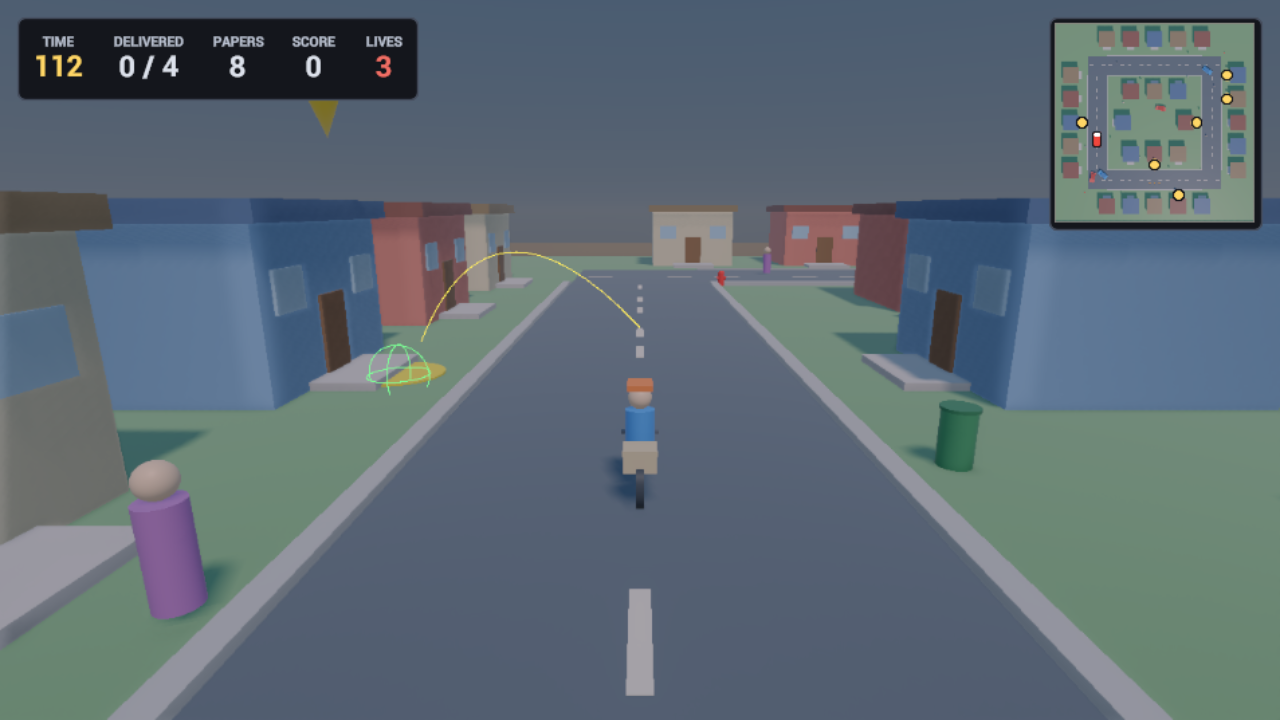
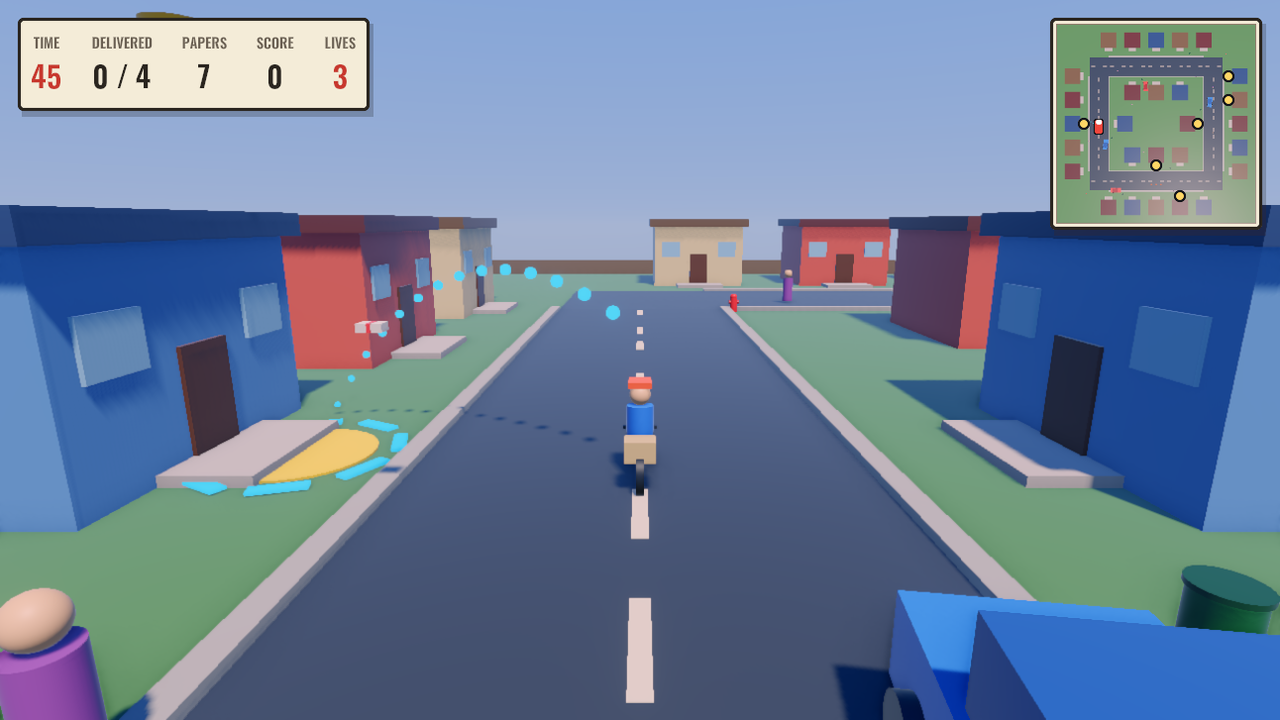
PaperKid: new screenshots, and its READMEs say what it is now
The title, a ride with the throw's arc locked on a porch and the Block cleared card, taken
from play in the editor at the game's 1280x720 with the newsprint theme, type and confetti.
The READMEs gain the celebrated clear, the particles, the theme, the hurry-up music and the
shared profiles, and drop the twenty-second hurry-up and the clear's jingle.

diff --git a/Data/SampleProjects/PaperKid/README.md b/Data/SampleProjects/PaperKid/README.md
@@ -26,8 +26,12 @@ volumes), a pause menu, block cleared and failed screens, and a Game over or rou
 summary.
 
 The feel: chiptune music on the menus and across the blocks, a sound for every throw, delivery
-and crash, a jingle when a block is cleared or failed and a voice over the final screen, and a
-ticking clock in the last ten seconds ("Hurry up!" at twenty). The markers over the subscribers
+and crash, and a ticking clock in the last ten seconds; at fifteen, "Hurry up!" and the block's
+music speeds up. A cleared block is celebrated before its screen: the clock stops, a banner drops
+in, confetti bursts over the rider and the street eases into slow motion under a fanfare. A
+delivery sparkles off the porch, a crash kicks up dust and a paper puffs where it lands. The
+screens are printed newsprint: cream cards with an inked edge, slab-serif headlines and condensed
+type for the HUD and text. The markers over the subscribers
 bob and their porch mats breathe, the bike leans into turns and wobbles after a crash, the camera
 shakes on a crash, and a delivery's points rise from the score. Near a subscriber, a throw is
 shown before it is made: a trail of glowing dots along the paper's path and a ring spinning on the
@@ -45,13 +49,14 @@ confirm, Start (Options) to pause.
   effects and the music.
 - `Content/`: the asset envelopes (`*.xasset`) and their sidecars: the five blocks and the title
   scene, the blockout kit's prefabs, each block's baked navmesh, the minimap's render texture, the
-  audio clips and the markers' animation clips.
+  audio clips, the markers' animation clips, the particle effects, the UI theme and the shared
+  environment and post profiles every scene uses.
 - `Tools/`: the authoring scripts that drove the editor's MCP tools to build the game (the kit,
   the block generator, the scripts with their asset ids, a closed-loop playtest). Not game
   content; `Tools/README.md` says what each does.
-- `export_presets.xml`: the Linux desktop export target.
-- `CREDITS.md` and `Licenses/`: the music (Juhani Junkala, CC0), the sound effects (Kenney, CC0)
-  and the two fonts (OFL and Apache 2.0). The art is a primitive blockout made in the project.
+- `export_presets.xml`: the export targets (Linux desktop, Steam Deck).
+- `CREDITS.md` and `Licenses/`: the music (Juhani Junkala, CC0), the fanfare (celestialghost8,
+  CC0), the sound effects (Kenney, CC0) and the fonts (OFL, and Apache 2.0). The art is a primitive blockout made in the project.
 - `Cooked/`, `.cache/`, `Editor/`, `Dist/`: generated, and gitignored; the tools rebuild them.
 
 Open the project from the editor's project manager.

diff --git a/README.md b/README.md
@@ -113,7 +113,8 @@ and gamepad support throughout.
 
 **PaperKid** is an arcade paper-route game, also built entirely through the MCP tools: five
 town blocks on a difficulty ramp, papers thrown with a soft auto-aim, traffic and pedestrians on
-the navmesh, lives, and a live minimap drawn by a top-down camera into a render texture.
+the navmesh, lives, a live minimap drawn by a top-down camera into a render texture, particle
+effects, a newsprint UI theme, and music that speeds up when the clock runs low.
 
 | Title | Riding a block | Block cleared |
 |:---:|:---:|:---:|
